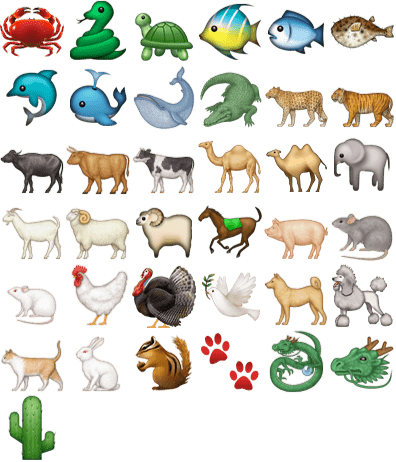
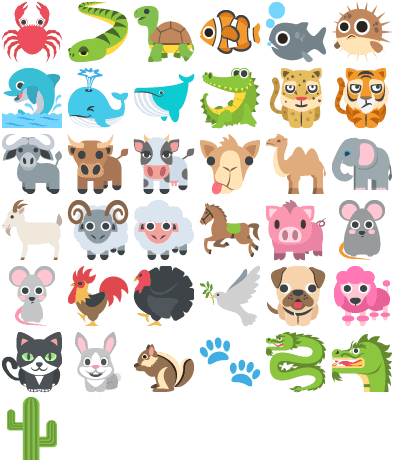
Restore original Emoji code, and replace assets.

diff --git a/TMessagesProj/src/main/java/org/telegram/ui/Components/EmojiView.java b/TMessagesProj/src/main/java/org/telegram/ui/Components/EmojiView.java
@@ -20,7 +20,6 @@ import android.graphics.Outline;
 import android.graphics.Paint;
 import android.graphics.RectF;
 import android.graphics.drawable.Drawable;
-import android.graphics.Color;
 import android.os.Build;
 import android.support.v4.view.PagerAdapter;
 import android.support.v4.view.ViewPager;
@@ -59,8 +58,6 @@ import org.telegram.ui.Cells.EmptyCell;
 import org.telegram.ui.Cells.FeaturedStickerSetInfoCell;
 import org.telegram.ui.Cells.StickerEmojiCell;
 import org.telegram.ui.StickerPreviewViewer;
-
-import com.amulyakhare.textdrawable.TextDrawable;
 
 import java.lang.reflect.Field;
 import java.util.ArrayList;
@@ -265,14 +262,7 @@ public class EmojiView extends FrameLayout implements NotificationCenter.Notific
                             } else {
                                 emojiColor.remove(code);
                             }
-                            //setImageDrawable(Emoji.getEmojiBigDrawable(code));
-                            int bigImgSize;
-                            if (AndroidUtilities.isTablet()) {
-                                bigImgSize = AndroidUtilities.dp(40);
-                            } else {
-                                bigImgSize = AndroidUtilities.dp(32);
-                            }
-                            setImageDrawable(TextDrawable.builder().beginConfig().textColor(Color.BLACK).fontSize(bigImgSize).endConfig().buildRect(code, Color.TRANSPARENT));
+                            setImageDrawable(Emoji.getEmojiBigDrawable(code));
                             sendEmoji(null);
                             saveEmojiColors();
                         } else {
@@ -503,16 +493,7 @@ public class EmojiView extends FrameLayout implements NotificationCenter.Notific
                         }
                         code = addColorToCode(code, color);
                     }
-
-                    int bigImgSize;
-                    if (AndroidUtilities.isTablet()) {
-                        bigImgSize = AndroidUtilities.dp(40);
-                    } else {
-                        bigImgSize = AndroidUtilities.dp(32);
-                    }
-                    Drawable drawable = TextDrawable.builder().beginConfig().textColor(Color.BLACK).fontSize(bigImgSize).endConfig().buildRect(code, Color.TRANSPARENT);
-
-                    //Drawable drawable = Emoji.getEmojiBigDrawable(code);
+                    Drawable drawable = Emoji.getEmojiBigDrawable(code);
                     if (drawable != null) {
                         drawable.setBounds(x, y, x + emojiSize, y + emojiSize);
                         drawable.draw(canvas);
@@ -2089,20 +2070,8 @@ public class EmojiView extends FrameLayout implements NotificationCenter.Notific
                     coloredCode = addColorToCode(coloredCode, color);
                 }
             }
-            /*
-             * Telegram-FOSS - Draw native Emojis using TextDrawable. See:
-             *  - https://github.com/Jamesits/Moegram/commit/8e52c6222cf00bc9a86d52fed4c06558f48c345c
-             *  - https://github.com/amulyakhare/TextDrawable
-             */
-            //imageView.setImageDrawable(Emoji.getEmojiBigDrawable(code));
+            imageView.setImageDrawable(Emoji.getEmojiBigDrawable(coloredCode));
             imageView.setTag(code);
-            int bigImgSize;
-            if (AndroidUtilities.isTablet()) {
-                bigImgSize = AndroidUtilities.dp(40);
-            } else {
-                bigImgSize = AndroidUtilities.dp(32);
-            }
-            imageView.setImageDrawable(TextDrawable.builder().beginConfig().textColor(Color.BLACK).fontSize(bigImgSize).endConfig().buildRect(coloredCode, Color.TRANSPARENT));
             return imageView;
         }
 

diff --git a/TMessagesProj/src/main/java/org/telegram/messenger/Emoji.java b/TMessagesProj/src/main/java/org/telegram/messenger/Emoji.java
@@ -342,10 +342,6 @@ public class Emoji {
         } else {
             s = Spannable.Factory.getInstance().newSpannable(cs.toString());
         }
-
-        /* Telegram-FOSS - Disable emoji replacement, falling back to native emojis. */
-
-/*
         long buf = 0;
         int emojiCount = 0;
         char c;
@@ -466,7 +462,6 @@ public class Emoji {
             FileLog.e("tmessages", e);
             return cs;
         }
-*/
         return s;
     }
 

diff --git a/TMessagesProj/src/main/java/org/telegram/messenger/EmojiData.java b/TMessagesProj/src/main/java/org/telegram/messenger/EmojiData.java
@@ -333,8 +333,7 @@ public class EmojiData {
             dataCharsMap.put(dataChars[a], true);
         }
         for (int a = 0; a < emojiColored.length; a++) {
-            //Disable colored emoji.
-            //emojiColoredMap.put(emojiColored[a], true);
+            emojiColoredMap.put(emojiColored[a], true);
         }
         dataColored[1] = data[1];
         dataColored[3] = data[3];
